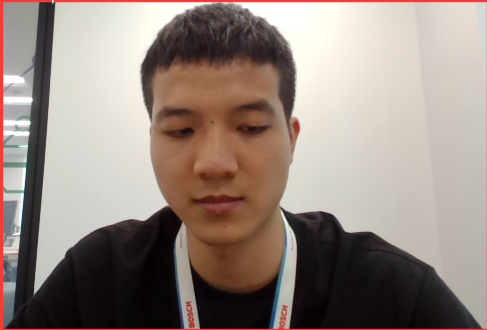
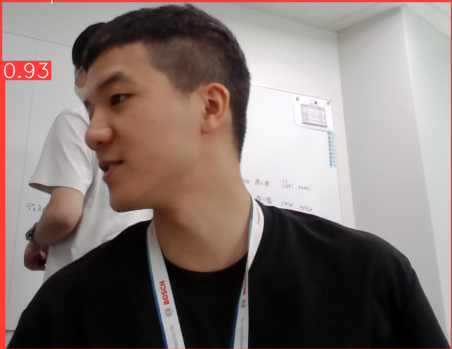
succesfully connect yolo and Mediapipe

diff --git a/Mediapipe_recognize.py b/Mediapipe_recognize.py
@@ -1,0 +1,72 @@
+import cv2
+import mediapipe as mp
+import time
+
+class mediapipe_model():
+    def __init__(self) -> None:
+        # 导入姿态跟踪方法
+        self.mpPose = mp.solutions.pose  # 姿态识别方法
+        self.pose = self.mpPose.Pose(static_image_mode=True, # 静态图模式，False代表置信度高时继续跟踪，True代表实时跟踪检测新的结果
+                           #upper_body_only=True,  # 是否只检测上半身
+                           smooth_landmarks=True,  # 平滑，一般为True
+                           min_detection_confidence=0.5, # 检测置信度
+                           min_tracking_confidence=0.5)  # 跟踪置信度
+        # 检测置信度大于0.5代表检测到了，若此时跟踪置信度大于0.5就继续跟踪，小于就沿用上一次，避免一次又一次重复使用模型
+
+        # 导入绘图方法
+        self.mpDraw = mp.solutions.drawing_utils
+
+        self.pTime = 0  # 设置第一帧开始处理的起始时间
+        #（2）处理每一帧图像
+        self.lmlist = [] # 存放人体关键点信息
+        self.picture_PATH = "C:/Users/XIR1SBY/Desktop/bosch_avp_camera_recorrect/yolo/gape_picture_1.png"
+ 
+    def check_feacture(self):    
+        # 接收图片是否导入成功、帧图像
+        img = cv2.imread(self.picture_PATH)
+
+        # 将导入的BGR格式图像转为RGB格式
+        imgRGB = cv2.cvtColor(img, cv2.COLOR_BGR2RGB)
+
+        # 将图像传给姿态识别模型
+        results = self.pose.process(imgRGB)
+
+        # 查看体态关键点坐标，返回x,y,z,visibility
+        # print(results.pose_landmarks)
+
+        # 如果检测到体态就执行下面内容，没检测到就不执行
+        if results.pose_landmarks:
+
+            # 绘制姿态坐标点，img为画板，传入姿态点坐标，坐标连线
+            self.mpDraw.draw_landmarks(img, results.pose_landmarks, self.mpPose.POSE_CONNECTIONS)
+
+            # 获取32个人体关键点坐标, index记录是第几个关键点
+            for index, lm in enumerate(results.pose_landmarks.landmark):
+
+                # 保存每帧图像的宽、高、通道数
+                h, w, c = img.shape
+
+                # 得到的关键点坐标x/y/z/visibility都是比例坐标，在[0,1]之间
+                # 转换为像素坐标(cx,cy)，图像的实际长宽乘以比例，像素坐标一定是整数
+                cx, cy = int(lm.x * w), int(lm.y * h)
+
+                # 打印坐标信息
+                print(index, cx, cy)
+
+                # 保存坐标信息
+                self.lmlist.append((cx, cy))
+
+                # 在关键点上画圆圈，img画板，以(cx,cy)为圆心，半径5，颜色绿色，填充圆圈
+                cv2.circle(img, (cx,cy), 3, (0,255,0), cv2.FILLED)
+    
+        # 查看FPS
+        cTime = time.time() #处理完一帧图像的时间
+        fps = 1/(cTime-self.pTime)
+        self.pTime = cTime  #重置起始时间
+
+        # 在视频上显示fps信息，先转换成整数再变成字符串形式，文本显示坐标，文本字体，文本大小
+        cv2.putText(img, str(int(fps)), (70,50), cv2.FONT_HERSHEY_PLAIN, 3, (255,0,0), 3)  
+
+        # 显示图像，输入窗口名及图像数据
+        cv2.imshow('image', img)
+        cv2.waitKey(10)    

diff --git a/yolo/yolo_main.py b/yolo/yolo_main.py
@@ -1,19 +1,57 @@
+import cv2
 from ultralytics import YOLO
+import os
+import time
+from collections import defaultdict
+import numpy as np
+from PIL import Image
 
-# Create a new YOLO model from scratch
-model = YOLO('yolov8n.yaml')
+class yolo():
+    def __init__(self, cap):
+        os.environ['KMP_DUPLICATE_LIB_OK']='True'
+        # Load the YOLOv8 model
+        self.model = YOLO('C:/Users/XIR1SBY/Desktop/bosch_avp_camera_recorrect/yolo/yolov8n.pt')
+        # Open the video file
+        self.cap = cap
 
-# Load a pretrained YOLO model (recommended for training)
-model = YOLO('yolov8n.pt')
+        self.gape_picture_PATH = "C:/Users/XIR1SBY/Desktop/bosch_avp_camera_recorrect/yolo/"
+        self.pTime = 0  # 设置第一帧开始处理的起始时间
 
-# Train the model using the 'coco128.yaml' dataset for 3 epochs
-results = model.train(data='coco128.yaml', epochs=3)
+    def get_one_picture(self):
+        # Read a frame from the video
+        success, frame = self.cap.read()
+        print(success)
+        (max_img_size_y,max_img_size_x,img_c) = frame.shape
+        if success:
+            # Run YOLOv8 tracking on the frame, persisting tracks between frames
+            results = self.model.track(frame, persist=True)
 
-# Evaluate the model's performance on the validation set
-results = model.val()
+            # Visualize the results on the frame
+            annotated_frame = results[0].plot()
+            # Get the boxes and track IDs
+            boxes = results[0].boxes.xywh.cpu()
+            track_ids = results[0].boxes.id.int().cpu().tolist()
 
-# Perform object detection on an image using the model
-results = model('https://ultralytics.com/images/bus.jpg')
+        # 查看FPS
+        cTime = time.time() #处理完一帧图像的时间
+        fps = 1/(cTime-self.pTime)
+        self.pTime = cTime  #重置起始时间
 
-# Export the model to ONNX format
-success = model.export(format='onnx')
+        # 在视频上显示fps信息，先转换成整数再变成字符串形式，文本显示坐标，文本字体，文本大小
+        cv2.putText(annotated_frame, str(int(fps)), (70,50), cv2.FONT_HERSHEY_PLAIN, 3, (255,0,0), 3)  
+        # 显示图像，输入窗口名及图像数据
+        cv2.imshow('image_YOLO', annotated_frame)    
+        cv2.waitKey(10)
+        for box, track_id in zip(boxes, track_ids):
+            pictureName = self.gape_picture_PATH + "gape_picture_" + str(track_id) + ".png"
+            print(pictureName)
+            x, y, w, h = box
+            x = int(x.item())
+            y = int(y.item())
+            w = int(w.item())
+            h = int(h.item())
+            #print (max(int(y - h/2), 0),min(int(y + h/2), max_img_size_y),max(int(x - w/2), 0), min(int(x + w/2), max_img_size_x))
+            #cropped = annotated_frame[0:int(max_img_size_x/2), 0:int(max_img_size_y/2)]
+            cropped = annotated_frame[max(int(y - h/2), 0):min(int(y + h/2), max_img_size_y),max(int(x - w/2), 0):min(int(x + w/2), max_img_size_x)]
+            cv2.imwrite(pictureName, cropped)
+            
